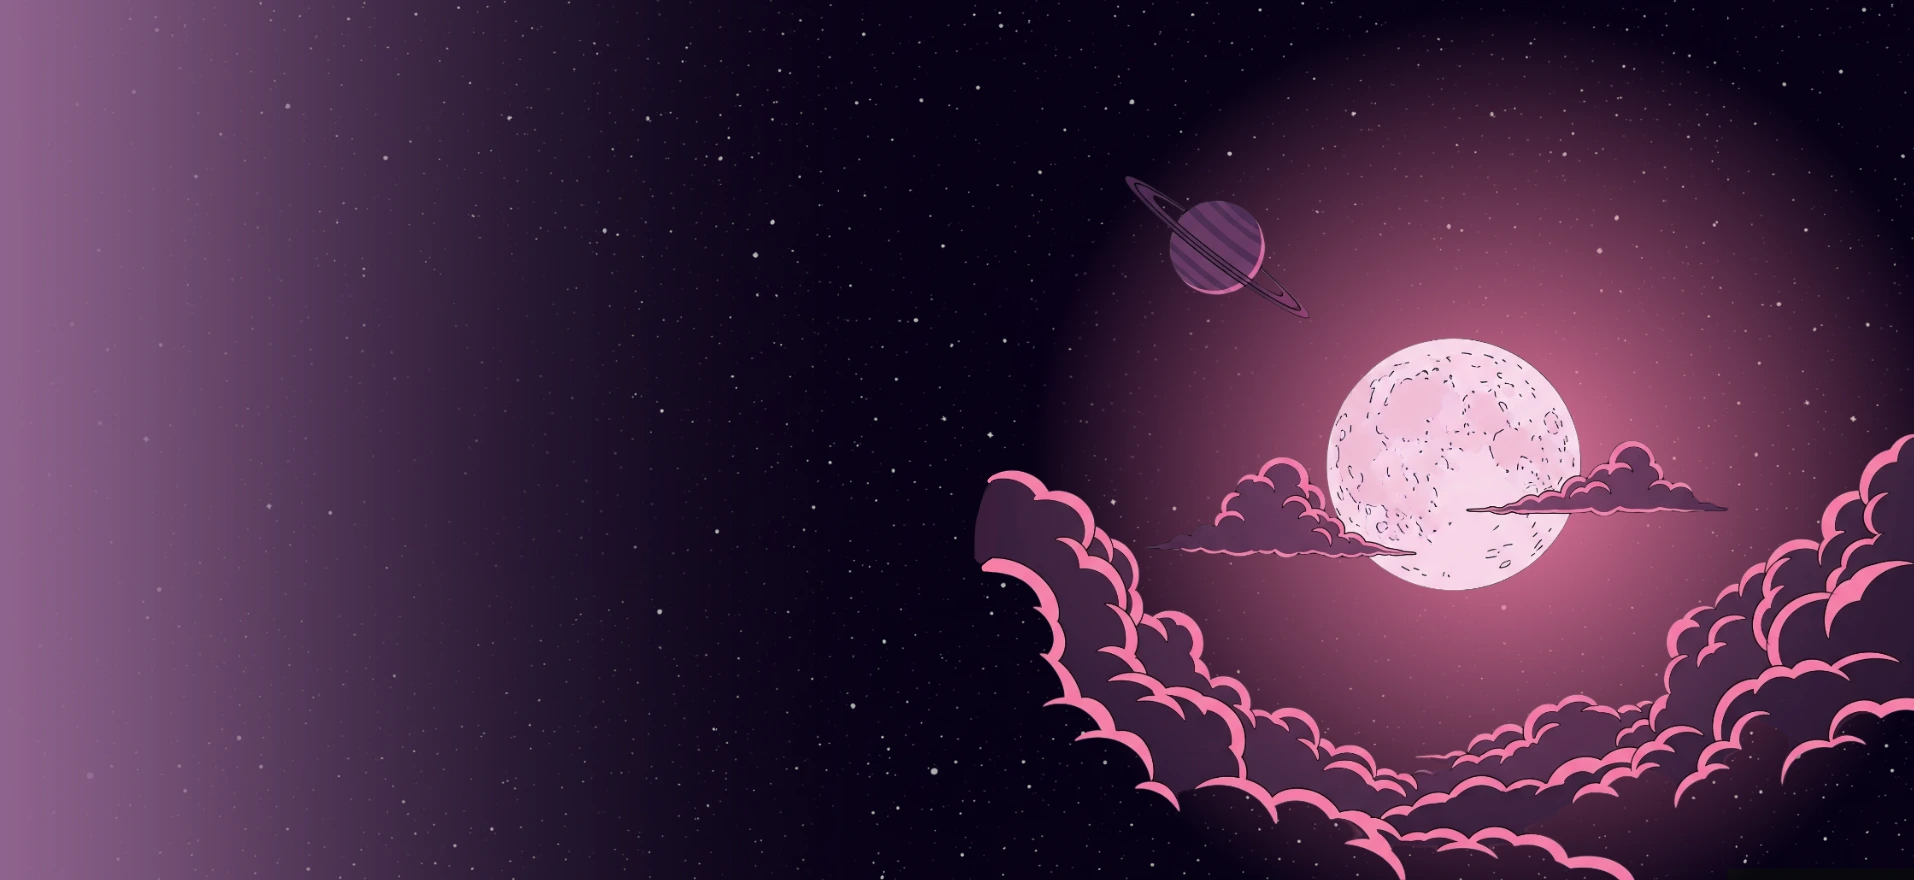
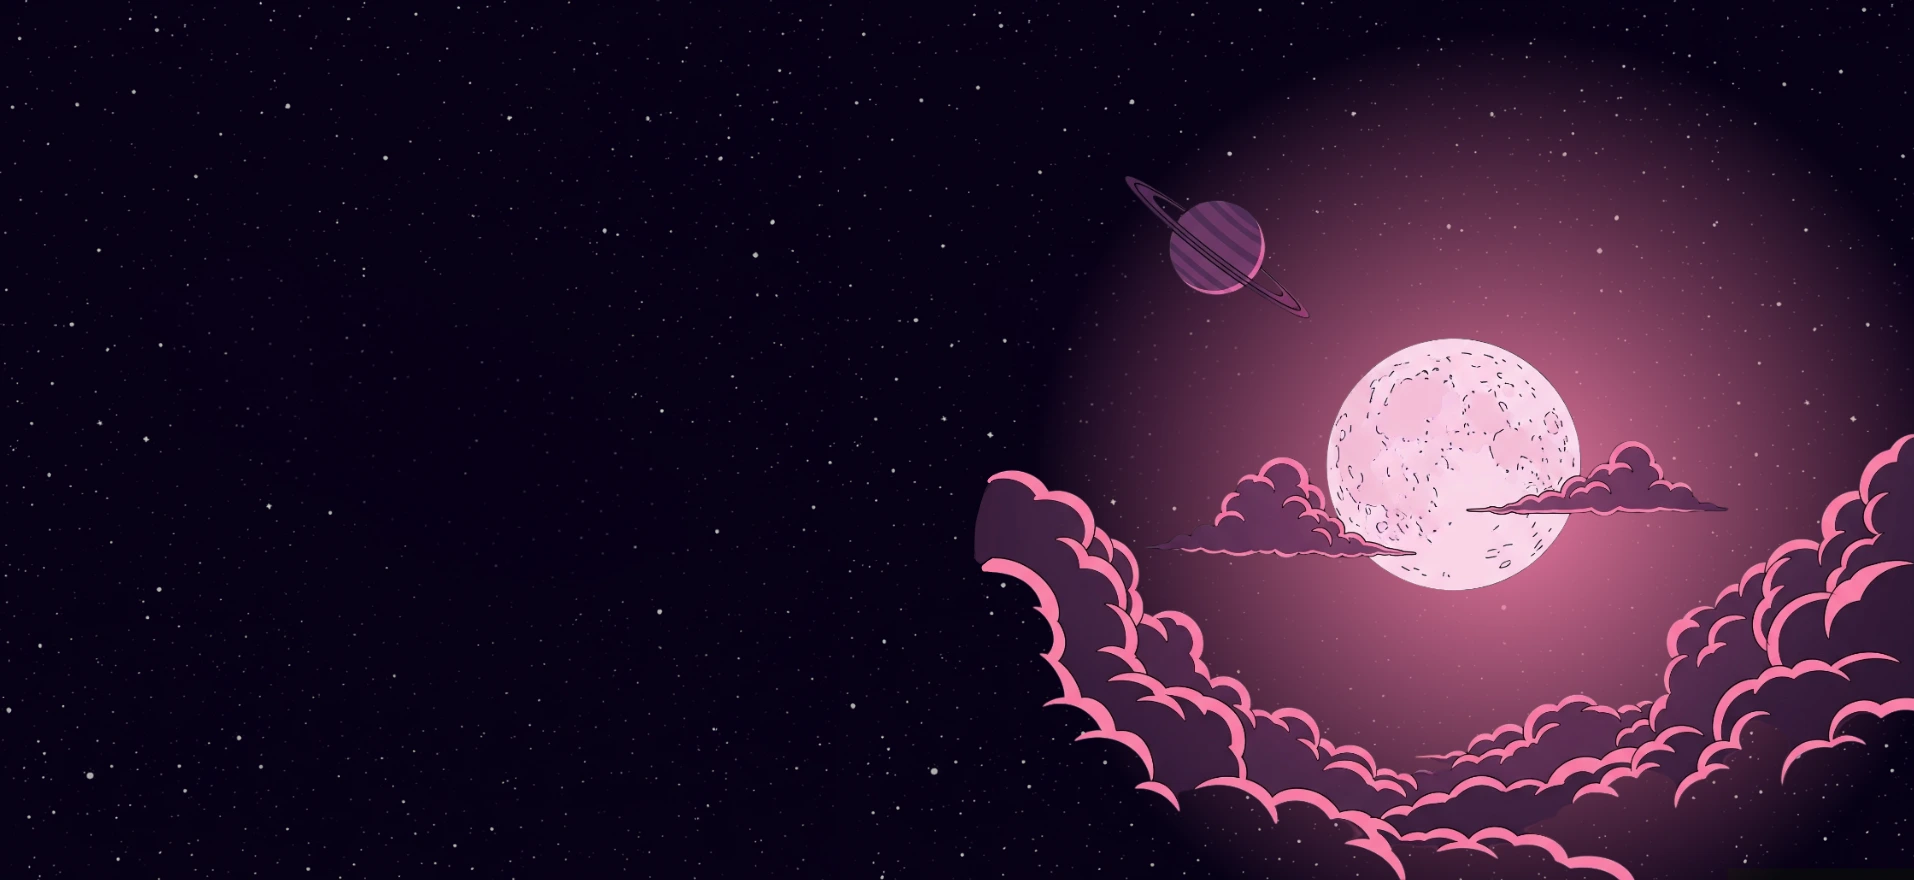
feat: actualiza fondo de inicio y agranda letra de los botones

diff --git a/frontend/assets/css/inicio.css b/frontend/assets/css/inicio.css
@@ -30,12 +30,12 @@
 
 .logo_condenedor {
   text-align: center;
-  background-color: rgba(15, 15, 22, 0.9); /* --color-azul-grisaceo */
+  background-color: rgba(15, 15, 22, 0.3);
   padding: 40px;
   border: 2px solid var(--color-lila);
   border-radius: 20px;
-  margin-left: 150px;
-  width: 500px; /* Hacelo más ancho */
+  margin-left: 120px;
+  width: 600px;
 }
 
 #logo_principal {
@@ -51,6 +51,7 @@
 }
 
 .acciones a {
+  font-size: 22px;
   margin: 10px auto;
   padding: 10px 20px;
   background-color: var(--color-lila);
